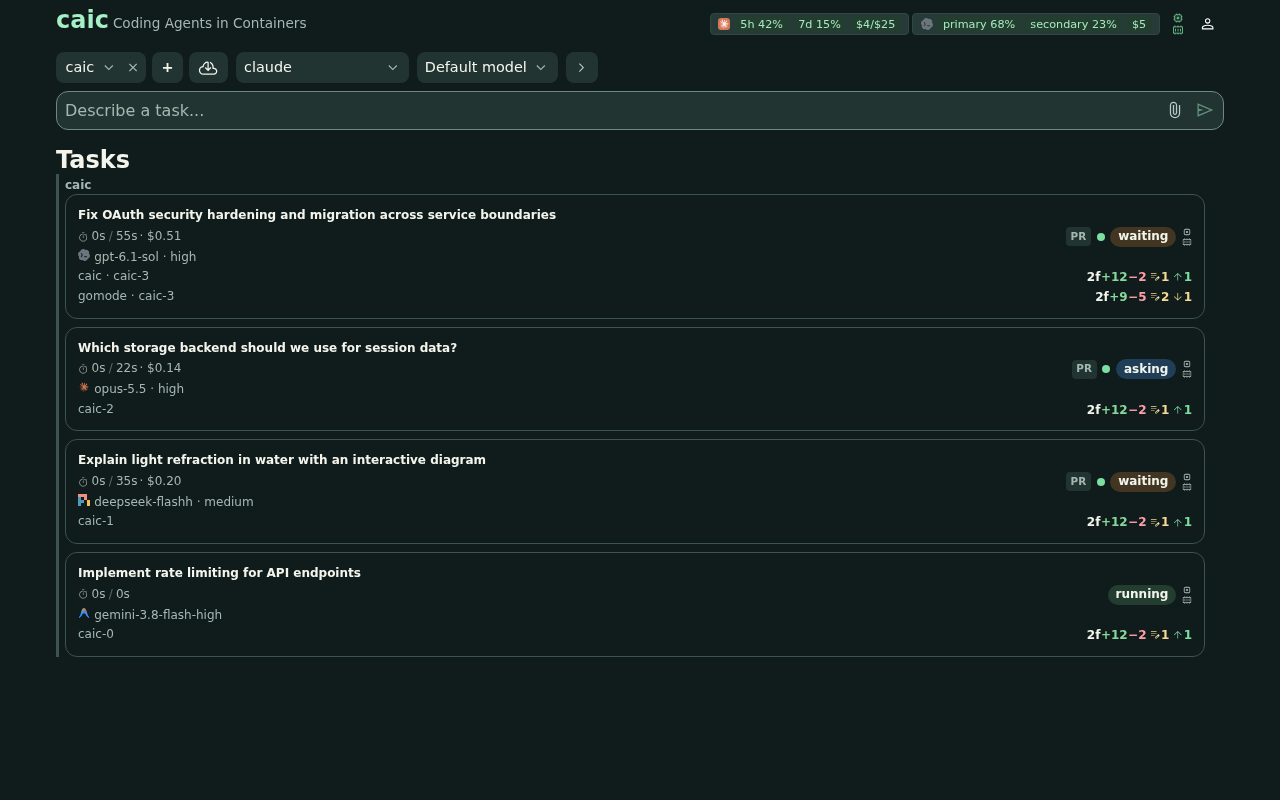
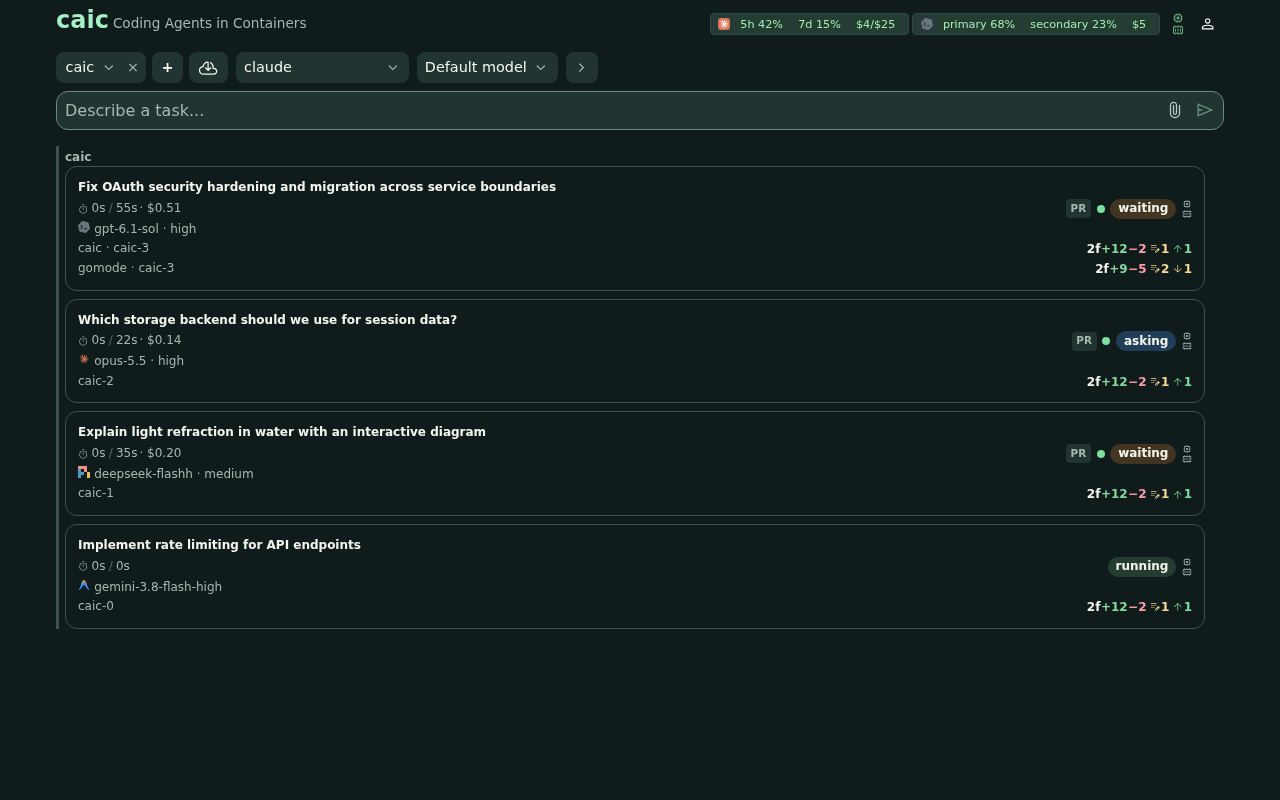
Sync guides and captures with gomode 96f5aba for the next release
Document the Vosk recognition engine, the WebRTC config fragment's new
schema package, the injected loggers that hosts now pass, dismissible
browser voice errors, the voice gateway v1 deprecation, and live
recognition refusals in troubleshooting. Narrow the Opus renegotiation
claim to the session model's microphone rate.

gomode 96f5aba restores light and dark Android captures at the source;
they match the published copies. Import the caic a987cbf host captures.

diff --git a/guide/voice.md b/guide/voice.md
@@ -11,7 +11,7 @@ The voice gateway supports Windows, macOS, and Linux. Clients connect from the w
 | Embedded   | Voice runs with the host process                                  | Host session policy            |
 | Standalone | Voice needs a separate machine, scaling, or local model isolation | Short-lived host-issued tokens |
 
-Embedded hosts mount `voicegateway.NewEmbeddedHandler` and advertise the gateway URL in discovery. `voicegateway.ReadConfig` reads `voice-choices.toml` from the host’s configuration directory, with the same entries as the standalone gateway. The host embeds `voicegateway.WebRTCConfig` in its own TOML file for the UDP port and STUN servers. The [`Config` documentation](https://pkg.go.dev/github.com/gomodedev/gomode/voicegateway#Config) lists the startup calls. An external gateway runs `voice-gateway` and accepts only configured trusted issuers.
+Embedded hosts mount `voicegateway.NewEmbeddedHandler`, which takes the host’s logger, and advertise the gateway URL in discovery. `voicegateway.ReadConfig` reads `voice-choices.toml` from the host’s configuration directory, with the same entries as the standalone gateway. The host embeds `WebRTC` from [`voicegateway/data/v1`](https://pkg.go.dev/github.com/gomodedev/gomode/voicegateway/data/v1) in its own TOML file for the UDP port, STUN servers, and UPnP, and starts from `voicegateway.NewWebRTCConfig` so omitted keys keep their defaults. The [`Config` documentation](https://pkg.go.dev/github.com/gomodedev/gomode/voicegateway#Config) lists the startup calls. An external gateway runs `voice-gateway` and accepts only configured trusted issuers.
 
 ## Install the standalone gateway
 
@@ -37,7 +37,7 @@ Invoke-WebRequest -UseBasicParsing https://raw.githubusercontent.com/gomodedev/g
 | Service          | systemd user `voice-gateway.service`         | launchd user `com.fghbuild.voice-gateway` | Scheduled task `GoModeVoiceGateway`   |
 | Logs             | `journalctl --user -u voice-gateway.service` | `~/Library/Logs/voice-gateway.log`        | `voice-gateway.log` beside executable |
 
-The configuration is `~/.config/voice-gateway/config.toml`, or under `XDG_CONFIG_HOME` when set; on Windows, `~` is `%USERPROFILE%`. API credentials are in `voice-gateway.env` in the same directory. Start from [contrib/config.toml](https://github.com/gomodedev/gomode/blob/main/contrib/config.toml). Replace the example trusted issuer before accepting clients. The gateway restarts when `config.toml`, `voice-choices.toml`, or `voice-gateway.env` changes.
+The configuration is `~/.config/voice-gateway/config.toml`, or under `XDG_CONFIG_HOME` when set; on Windows, `~` is `%USERPROFILE%`. API credentials are in `voice-gateway.env` in the same directory. Start from [contrib/config.toml](https://github.com/gomodedev/gomode/blob/main/contrib/config.toml). Uncomment its `[[trusted_issuers]]` example and set your host’s service and issuer before accepting clients. The gateway restarts when `config.toml`, `voice-choices.toml`, or `voice-gateway.env` changes.
 
 Released binaries check for a new stable release every day at 04:50 local time and restart after active sessions drain. Set `auto_update` to another cron schedule, or to an empty string to disable updates.
 
@@ -128,6 +128,9 @@ Each recognition stage opens a live transcription session per utterance; models 
 | ------------ | -------------------------------------------------------------------------------------------- |
 | `nemospeech` | NVIDIA `parakeet-tdt`, `nemotron-3.5`, and the English-only `nemotron-en` and `parakeet-ctc` |
 | `whistle`    | Cactus Whistle                                                                               |
+| `vosk`       | Vosk US English `vosk-model-en-us-0.22`                                                      |
+
+A managed Vosk stage downloads the 1.8 GB model and starts a worker that uses about 7 GB of memory; `remote` selects a `vosk-server` that loaded the model.
 
 Synthesis uses a genai provider, such as Gemini TTS or llama.cpp, or `engine = "kittentts"` with Kitten TTS 2 1.7B or its 82M mini model.
 
@@ -139,7 +142,7 @@ A fully local stack needs only stages without a provider API key. Managed engine
 
 Android and the browser integration share one voice setup. **All-in-one** selects a realtime choice. **Separate stages** selects recognition, a language model, and speech; each speech stage runs on the gateway or on the client. Client speech is Android recognition and text to speech, or the browser’s speech APIs, whose recognition may use the browser vendor’s service.
 
-A session uses WebRTC with Opus audio and the `voice-gateway` data channel. When the gateway’s recognizer takes audio below 48 kHz, the gateway lowers the client’s Opus encoder to that rate once the session is ready, which cuts microphone upload by about 40%. When the client owns both recognition and speech, it connects to the gateway’s text WebSocket instead. Discovery marks the matching choices with the `webrtc` and `text` transports. [Android setup](./android) covers the settings.
+A session uses WebRTC with Opus audio and the `voice-gateway` data channel. When the session’s model takes microphone audio below 48 kHz, such as a 16 kHz recognizer, the gateway lowers the client’s Opus encoder to that rate once the session is ready. At 16 kHz, this cuts microphone upload by about 40%. Clients that do not request this renegotiation keep 48 kHz. With client recognition and gateway speech, the client sends no microphone audio. When the client owns both recognition and speech, it connects to the gateway’s text WebSocket instead. Discovery marks the matching choices with the `webrtc` and `text` transports. [Android setup](./android) covers the settings.
 
 Client speech with a gateway language model is not an offline guarantee.
 

diff --git a/guide/sdk.md b/guide/sdk.md
@@ -43,7 +43,7 @@ The MCP endpoint must be a same-origin path or URL. `HostModeProvider` detects t
 | ------------------------------------------ | --------------------------------------------------------------------------- |
 | `@gomodedev/gomode/web/FrontendVoiceTools` | Bridge 3 authentication, frontend tool registration, and readiness          |
 | `@gomodedev/gomode/web/BrowserVoiceShell`  | Browser voice discovery, setup, and runtime                                 |
-| `@gomodedev/gomode/web/VoiceOverlay`       | Voice bar, transcript, and tool history                                     |
+| `@gomodedev/gomode/web/VoiceOverlay`       | Voice bar, transcript, tool history, and error history                      |
 | `@gomodedev/gomode/web/VoiceSettings`      | Voice setup, speech stages, speaking voice, speed, and language settings    |
 | `@gomodedev/gomode/web/VoiceMessages`      | English labels; `/de`, `/es`, and `/fr` hold translations                   |
 | `@gomodedev/gomode/web/notifications`      | Browser notification permission, delivery, dismissal, and voice suppression |
@@ -54,6 +54,8 @@ The MCP endpoint must be a same-origin path or URL. `HostModeProvider` detects t
 `BrowserVoiceShell` takes the expected service and tool-group names, the client name, and the preparation scope. It discovers the manifest only in browser mode and only when the scope is ready. An external gateway needs a same-origin token endpoint and an `authorize(endpoint)` callback that performs the host’s token exchange. A missing discovery route means voice is unavailable; a malformed manifest is a setup error.
 
 `VoiceSettings` offers the same setup as Android: **All-in-one** with a realtime model, or **Separate stages** with **Recognition**, **Language model**, and **Speech**, where **Browser** selects the browser’s speech APIs. It also offers the voice language, speaking voice, and speaking speed, and saves each of them. An active session locks them. The choices, models, and speaking voices come from the gateway, so a host that offers several backends does not model them itself.
+
+`VoiceOverlay` shows a voice error with a dismiss button that returns keyboard focus to the voice control. A dismissed error stays in the error history. Hosts that supply their own `VoiceMessages` can set the optional `dismissError` label; English is the fallback.
 
 The host decides which product events become alerts and when they expire.
 
@@ -70,7 +72,7 @@ The host decides which product events become alerts and when they expire.
 
 Every SDK import names its protocol version; there are no unversioned exports. TypeScript entry points are `@gomodedev/gomode/sdk/gomode/v1/api.gen`, `sdk/mcp/v1/types.gen`, `sdk/oauth/v1/types.gen`, and `sdk/voicegateway/v2/api.gen` under the same package prefix. Kotlin packages end in `.sdk.v1` or `.sdk.v2`. Swift modules are `GoModeSDKV1`, `MCPSDKV1`, `OAuthSDKV1`, `VoiceGatewaySDKV1`, and `VoiceGatewaySDKV2`. The Android repository also includes the Halo SDK.
 
-Voice gateway v2 is the current signaling and data-channel contract. The gateway still serves v1 for clients built against the v0.3.0 release.
+Voice gateway v2 is the current signaling and data-channel contract. The gateway still serves v1 for clients built against the v0.3.0 release. v1 is deprecated. v0.4.0 is the first release that contains v2; once a second release contains v2, a later release can remove v1. Move clients to v2.
 
 After changing wire DTOs or routes in Go Mode, maintainers regenerate the SDKs with:
 

diff --git a/guide/troubleshooting.md b/guide/troubleshooting.md
@@ -50,6 +50,17 @@ Native voice prefers a Bluetooth device when Voice connects, if one is already a
 
 A gateway’s local stack downloads its models on first use; the voice progress names the current step. For a model on the phone, check in Settings that the selected model is downloaded; a missing model shows **Not downloaded**. Expand **Model load diagnostics** to see which load stage failed and how much memory it used. A load that ended the app shows Android’s exit reason, such as **Low memory**. End the voice session before changing the model.
 
+## Gateway recognition asks you to repeat
+
+Gateway recognition ends an utterance after 200 ms of quiet, so pauses inside a sentence open more recognition sessions. The voice error names the cause:
+
+- **speech recognition is busy with earlier utterances:** four utterances of the session are still connecting, receiving audio, or waiting for their final transcript.
+- **no speech recognizer became available:** the recognizer did not accept the utterance before about 10 seconds of audio queued. A managed llama.cpp recognizer with every slot in use does this; increase its `slots`.
+- **speech recognition fell behind:** the recognizer takes audio more slowly than the microphone sends it.
+- **speech recognition timed out:** the final transcript did not arrive within one minute.
+
+The gateway logs a `voicertc: live ASR` warning with the details of each of the first three causes.
+
 ## Gateway voice choices do not appear
 
 Check the discovery manifest’s gateway URL, then read the choices endpoint directly:

diff --git a/guide/authentication.md b/guide/authentication.md
@@ -60,7 +60,7 @@ Discovery stays public. MCP tools, resources, and embedded voice routes enforce 
 
 The `devicelogin` Go package pairs a browser that is not signed in with an account that is. The new browser shows a code. A signed-in user reviews the code and the requesting browser’s details, then approves or denies it. On approval the host issues its normal session, with the same permissions and lifetime as an ordinary login.
 
-The host supplies approver identity, login eligibility, audit persistence, and session creation through `devicelogin.Host`. Mount the handlers behind the host’s normal network and origin protections. Pending requests live in memory, so a restart cancels them. The browser side is `@gomodedev/gomode/web/DeviceLogin`: `DeviceLoginDisplay` shows the code and `DeviceLoginApproval` asks the approver. See [the package contract](https://pkg.go.dev/github.com/gomodedev/gomode/devicelogin).
+The host supplies approver identity, login eligibility, audit persistence, and session creation through `devicelogin.Host`, and creates the server with `devicelogin.New(log, host)`. Mount the handlers behind the host’s normal network and origin protections. Pending requests live in memory, so a restart cancels them. The browser side is `@gomodedev/gomode/web/DeviceLogin`: `DeviceLoginDisplay` shows the code and `DeviceLoginApproval` asks the approver. See [the package contract](https://pkg.go.dev/github.com/gomodedev/gomode/devicelogin).
 
 ## Provider login limitations
 

diff --git a/guide/host.md b/guide/host.md
@@ -68,7 +68,7 @@ The choices come from `GET /api/voicegateway/v2/voice/choices` on the gateway. M
 
 ## Publish resource updates
 
-Implement `mcp.SubscriptionRegistry` to signal resource changes. For released Streamable HTTP clients, create one `mcp.NewSessionStore` for the server lifetime and set it on `mcp.Handler.Sessions`. Its owner function returns a stable key for the authenticated principal, never a credential. Authenticate every request; a session ID grants nothing. Updates are invalidations: clients read the resource again. The [`mcp` package documentation](https://pkg.go.dev/github.com/gomodedev/gomode/mcp) covers the session lifecycle.
+Implement `mcp.SubscriptionRegistry` to signal resource changes. Set the required `mcp.Handler.Log`; it receives request failures and stream diagnostics. For released Streamable HTTP clients, create one `mcp.NewSessionStore` for the server lifetime and set it on `mcp.Handler.Sessions`. Its owner function returns a stable key for the authenticated principal, never a credential. Authenticate every request; a session ID grants nothing. Updates are invalidations: clients read the resource again. The [`mcp` package documentation](https://pkg.go.dev/github.com/gomodedev/gomode/mcp) covers the session lifecycle.
 
 ## Alerts
 

diff --git a/AGENTS.md b/AGENTS.md
@@ -10,7 +10,7 @@ Read current [Cloudflare documentation](https://developers.cloudflare.com/worker
 
 ## Last synced
 
-The guides and screenshots were last reconciled against gomode commit `2420ee3432f129b47b9b73c5b7407cbcf450e054` on 2026-11-19. When you update that commit, refresh the screenshots and import them before committing. Review `git log <hash>..HEAD` when updating.
+The guides and screenshots were last reconciled against gomode commit `96f5aba235031e9fe5fe146670050dbbe30e5f07` on 2026-11-23. When you update that commit, refresh the screenshots and import them before committing. Review `git log <hash>..HEAD` when updating.
 
 ## Authoring and validation
 

diff --git a/guide/android.md b/guide/android.md
@@ -2,7 +2,7 @@
 
 Go Mode loads a compatible service’s existing web frontend and adds native voice, notifications, settings, and optional Halo glasses integration.
 
-Go Mode follows your Android light or dark theme. Hosted apps that support the system appearance follow it as well.
+Go Mode follows your Android light or dark theme. Hosted apps that support the system appearance follow it as well. A theme change keeps the current screen, its edits, and the loaded hosted pages.
 
 ## Build from source
 
